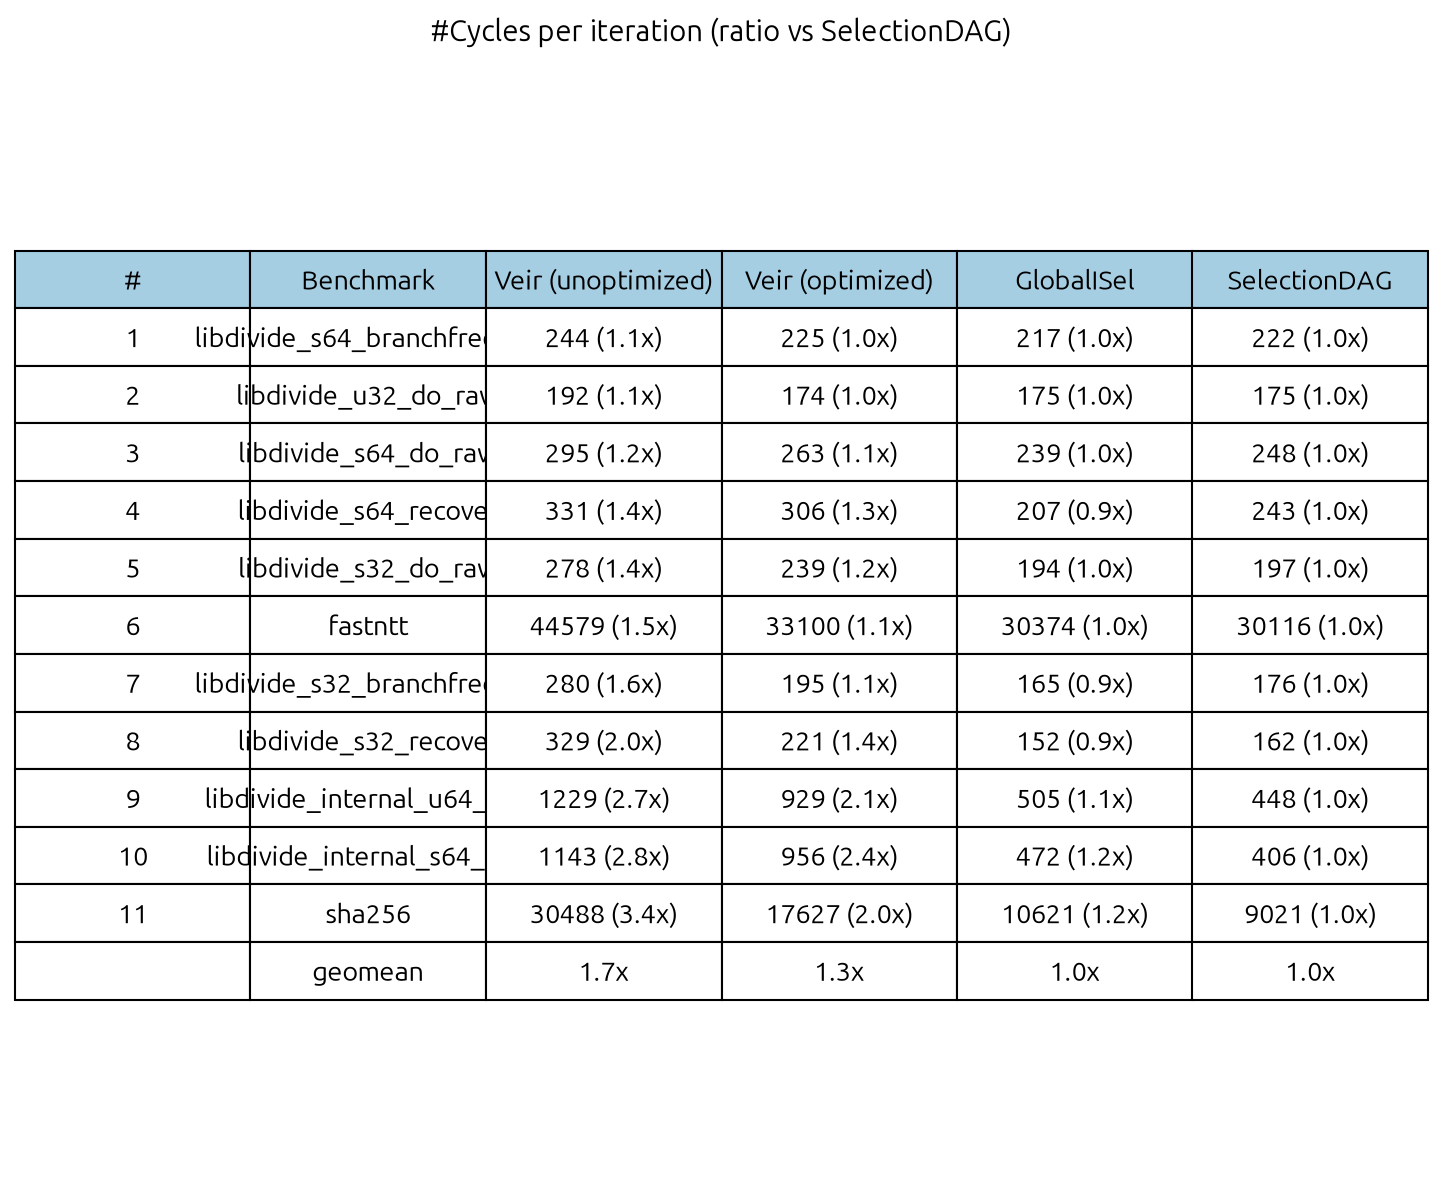
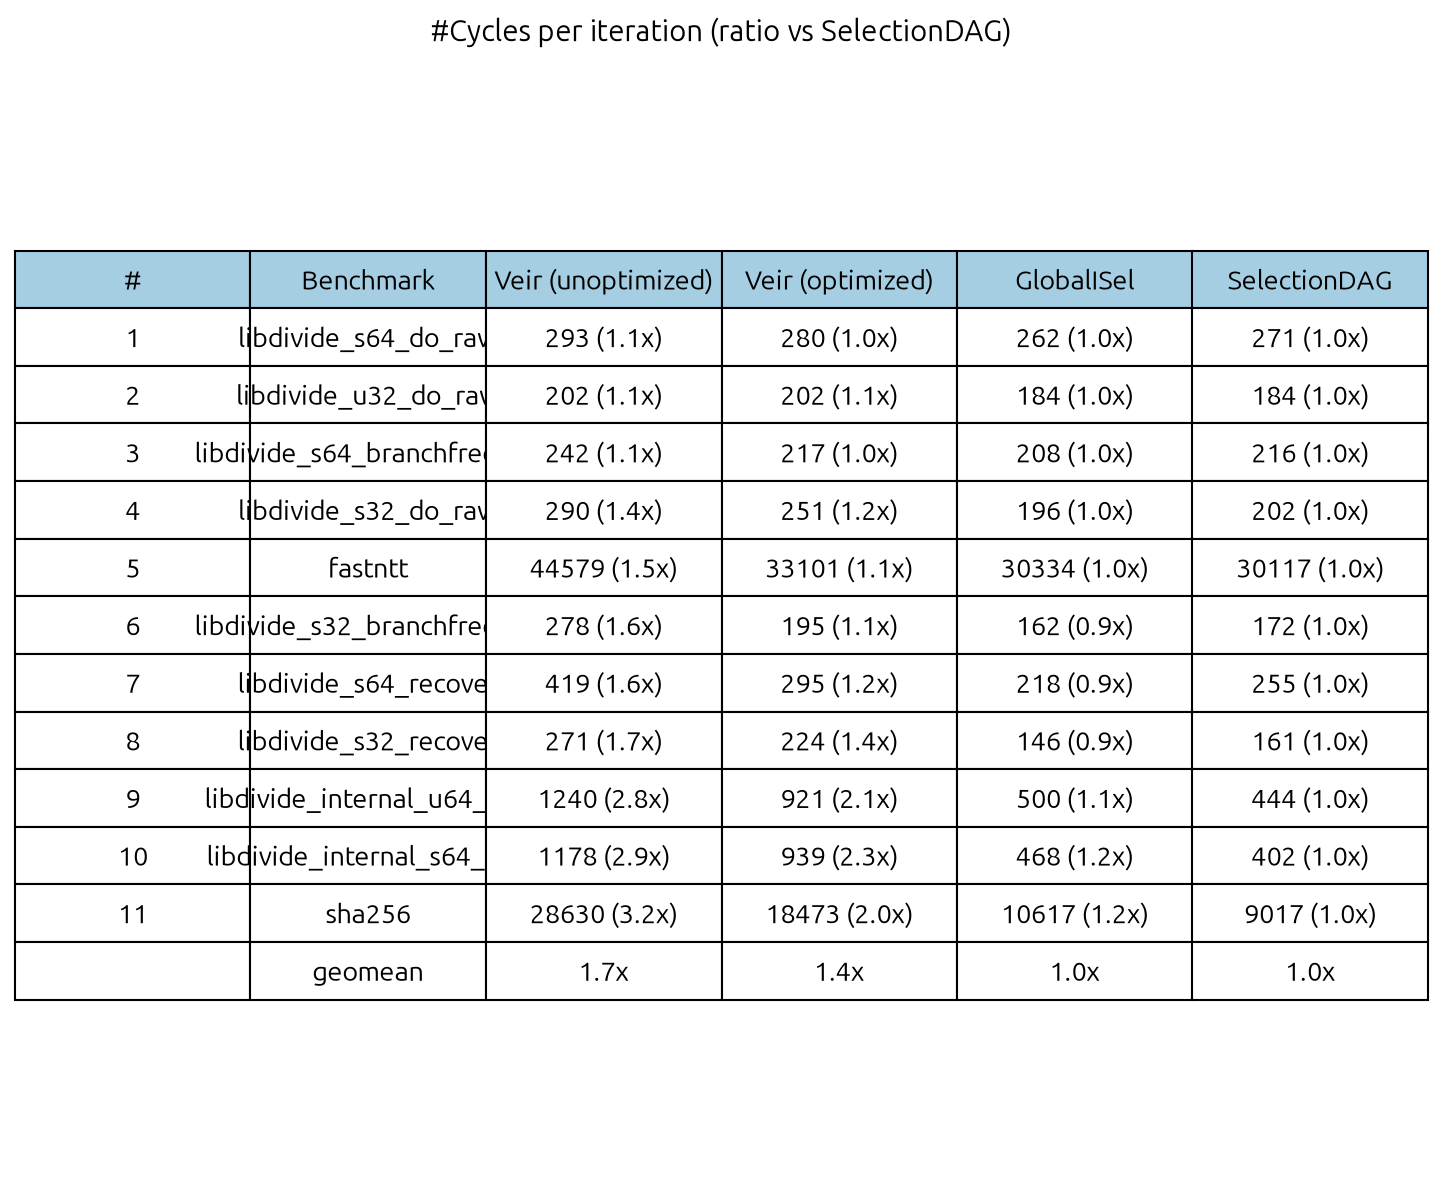
bump veir

diff --git a/real-benchmarks/data/cycles_ratio_table_real.tex b/real-benchmarks/data/cycles_ratio_table_real.tex
@@ -6,19 +6,19 @@
         \cmidrule(lr){3-6}
         \textbf{\#} & \textbf{Benchmark} & \textbf{Veir (unoptimized)} & \textbf{Veir (optimized)} & \textbf{GlobalISel} & \textbf{SelectionDAG} \\
         \midrule
-        1 & \texttt{libdivide\_s64\_branchfree\_do} & 244 (1.1x) & 225 (1.0x) & 217 (1.0x) & 222 (1.0x) \\
-        2 & \texttt{libdivide\_u32\_do\_raw} & 192 (1.1x) & 174 (1.0x) & 175 (1.0x) & 175 (1.0x) \\
-        3 & \texttt{libdivide\_s64\_do\_raw} & 295 (1.2x) & 263 (1.1x) & 239 (1.0x) & 248 (1.0x) \\
-        4 & \texttt{libdivide\_s64\_recover} & 331 (1.4x) & 306 (1.3x) & 207 (0.9x) & 243 (1.0x) \\
-        5 & \texttt{libdivide\_s32\_do\_raw} & 278 (1.4x) & 239 (1.2x) & 194 (1.0x) & 197 (1.0x) \\
-        6 & \texttt{fastntt} & 44579 (1.5x) & 33100 (1.1x) & 30374 (1.0x) & 30116 (1.0x) \\
-        7 & \texttt{libdivide\_s32\_branchfree\_do} & 280 (1.6x) & 195 (1.1x) & 165 (0.9x) & 176 (1.0x) \\
-        8 & \texttt{libdivide\_s32\_recover} & 329 (2.0x) & 221 (1.4x) & 152 (0.9x) & 162 (1.0x) \\
-        9 & \texttt{libdivide\_internal\_u64\_gen} & 1229 (2.7x) & 929 (2.1x) & 505 (1.1x) & 448 (1.0x) \\
-        10 & \texttt{libdivide\_internal\_s64\_gen} & 1143 (2.8x) & 956 (2.4x) & 472 (1.2x) & 406 (1.0x) \\
-        11 & \texttt{sha256} & 30488 (3.4x) & 17627 (2.0x) & 10621 (1.2x) & 9021 (1.0x) \\
+        1 & \texttt{libdivide\_s64\_do\_raw} & 293 (1.1x) & 280 (1.0x) & 262 (1.0x) & 271 (1.0x) \\
+        2 & \texttt{libdivide\_u32\_do\_raw} & 202 (1.1x) & 202 (1.1x) & 184 (1.0x) & 184 (1.0x) \\
+        3 & \texttt{libdivide\_s64\_branchfree\_do} & 242 (1.1x) & 217 (1.0x) & 208 (1.0x) & 216 (1.0x) \\
+        4 & \texttt{libdivide\_s32\_do\_raw} & 290 (1.4x) & 251 (1.2x) & 196 (1.0x) & 202 (1.0x) \\
+        5 & \texttt{fastntt} & 44579 (1.5x) & 33101 (1.1x) & 30334 (1.0x) & 30117 (1.0x) \\
+        6 & \texttt{libdivide\_s32\_branchfree\_do} & 278 (1.6x) & 195 (1.1x) & 162 (0.9x) & 172 (1.0x) \\
+        7 & \texttt{libdivide\_s64\_recover} & 419 (1.6x) & 295 (1.2x) & 218 (0.9x) & 255 (1.0x) \\
+        8 & \texttt{libdivide\_s32\_recover} & 271 (1.7x) & 224 (1.4x) & 146 (0.9x) & 161 (1.0x) \\
+        9 & \texttt{libdivide\_internal\_u64\_gen} & 1240 (2.8x) & 921 (2.1x) & 500 (1.1x) & 444 (1.0x) \\
+        10 & \texttt{libdivide\_internal\_s64\_gen} & 1178 (2.9x) & 939 (2.3x) & 468 (1.2x) & 402 (1.0x) \\
+        11 & \texttt{sha256} & 28630 (3.2x) & 18473 (2.0x) & 10617 (1.2x) & 9017 (1.0x) \\
         \midrule
-        & \textbf{geomean} & 1.7x & 1.3x & 1.0x & 1.0x \\
+        & \textbf{geomean} & 1.7x & 1.4x & 1.0x & 1.0x \\
         \bottomrule
     \end{tabular}
     \label{cycles_ratio_table_real}
